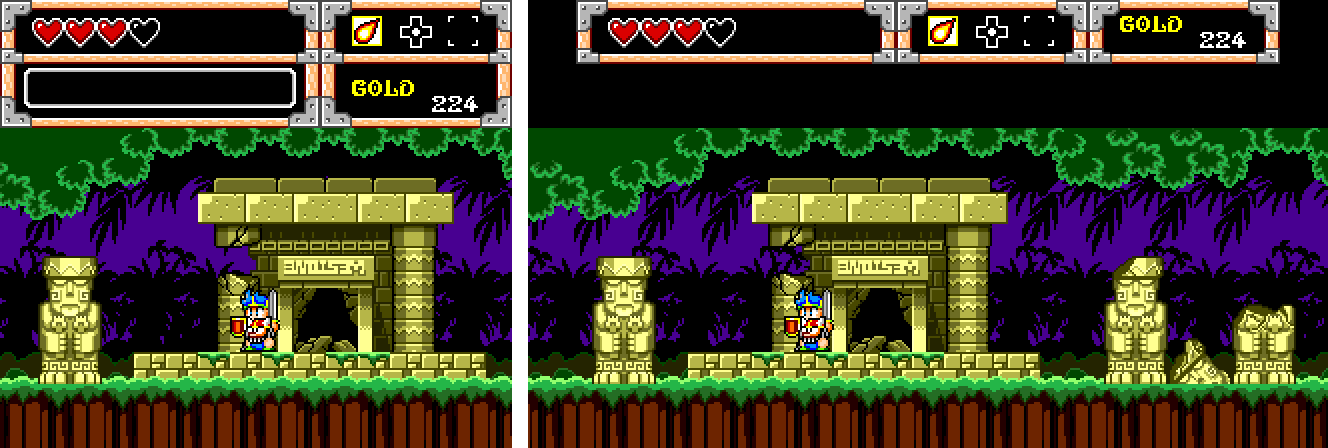
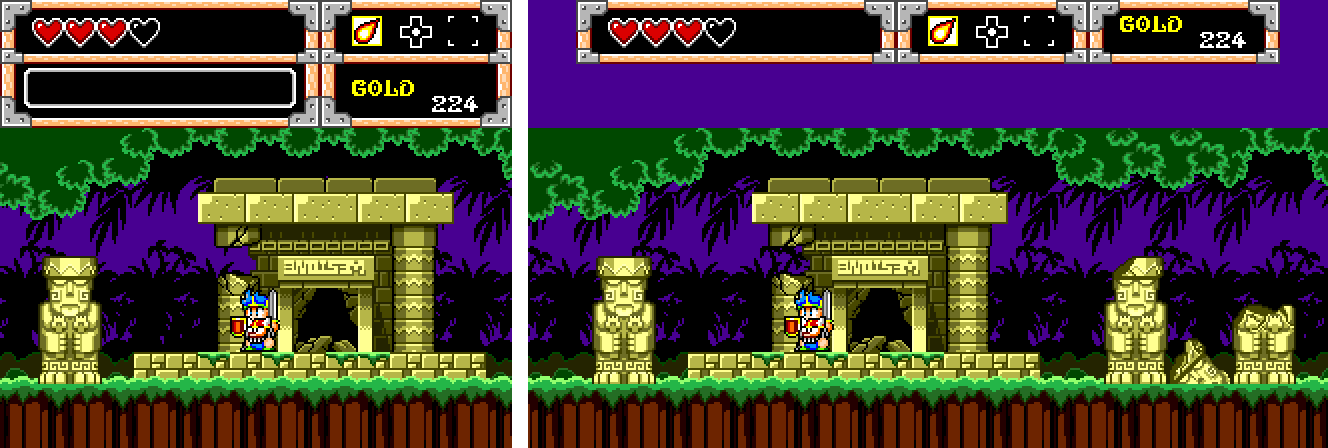
README: screenshots taken again (the band's colours), the band, painted sides and rows, quick load's question

Changed region(s): [[0.3705, 0.0, 1.0, 0.3125]]

diff --git a/README.md b/README.md
@@ -39,7 +39,7 @@ On top of the original game. They are all on by default; each can be turned off 
   menu.
 * **Four save slots** of the whole game state, each with a picture of the moment it was saved,
   chosen from the menu (**Save state**, **Load state**), plus quick save and load on the current
-  slot. Saving over a slot shows its picture and asks first.
+  slot. Saving over a slot shows its picture and asks first; so does quick load (F4).
 * **Full screen** by default, with window mode and whole-pixel scaling.
 * **Frame rate display.**
 * **Enemy health bars and damage numbers**: when you hit an enemy, the damage rises from it as a
@@ -52,7 +52,8 @@ On top of the original game. They are all on by default; each can be turned off 
   black, such as the inn's. See `docs/TALKZOOM.md`.
 * **Widescreen (experimental)**: a 16:9 picture. See `docs/WIDESCREEN.md`.
   * **Most rooms fill it**: 121 of the 170, those whose maps are wide enough. One-screen rooms
-    keep the original picture with black sides. Houses and shops open over the room outside, as
+    keep the original picture with black sides, unless their sides are painted (in Tiled:
+    `docs/MODDING.md`, "Widescreen sides"); then they fill it too, and you can walk into the sides. Houses and shops open over the room outside, as
     in the original, so they stay wide. Rooms switch between wide and narrow only while the
     screen is black during a transition.
   * **A one-row status bar**: hearts, items and gold side by side across the top, in every room.
@@ -61,9 +62,10 @@ On top of the original game. They are all on by default; each can be turned off 
   * **Gold as a number**: gold you pick up rises from you as a gold number, in the same style as
     the damage numbers, instead of a "Found ... GOLD" box.
   * **Above the play field**: below and beside the status bar, the scenery shows where the
-    room's map reaches that high, and it is black where it doesn't (most rooms), so nothing
-    looks cut off. Wonder Boy and enemies stay visible there; what the original hides behind the
-    status bar stays hidden.
+    room's map reaches that high, each layer as far up as its own map goes. Above that, rooms
+    with an open sky or sea show its colour (41 rooms); caves, walls and the rest show black, so
+    nothing looks cut off. Wonder Boy and enemies stay visible there; what the original hides
+    behind the status bar stays hidden.
 
 ## No ROM data is in this repository
 
@@ -287,7 +289,8 @@ How the port was made, and how to check it against the original:
   changed by hand in `assets/` are packed, not overwritten. See `docs/EXTRACT.md`.
 * **Modding:** change the files in `assets/` and build again; the game plays with your changes.
   `docs/MODDING.md` says what can be changed so far, with examples (all the text at any length,
-  the rooms' maps in the Tiled map editor (bigger too), enemies and things in the rooms, monsters' health and damage and the prices by name, the graphics
+  the rooms' maps in the Tiled map editor (bigger too, and the widescreen sides and the rows above
+  a one-screen room painted; `tools/tiled.py export --only areaNN_roomNN` starts a room over), enemies and things in the rooms, monsters' health and damage and the prices by name, the graphics
   as pictures in their real colours, palettes, maps, music) and the safety checks.
 * Documentation: `docs/NOTES.md` (what the game does), `docs/PORT.md` (the port and how each routine
   is verified), `docs/PROCESS.md` (the process as a whole), `docs/EXTRACT.md` (the extracted data
